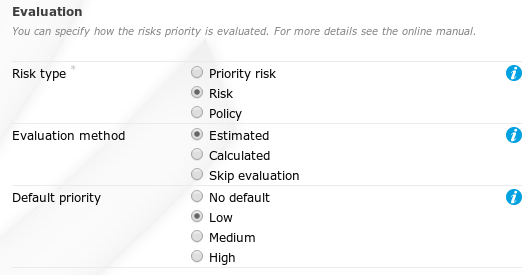
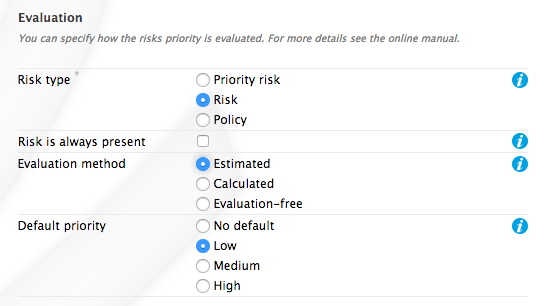
Update documentation to include the new "Rsk is always present" option #13692

diff --git a/manuals/editor2.rst b/manuals/editor2.rst
@@ -793,104 +793,109 @@ differ in case you have chosen the 2-criteria evaluation when creating the tool)
 
 **Evaluation**:
 
+
+    **Risk type**:
+    There are 3 types of risk which you can choose from.
+
+    Risks that have been identified by the end-user,
+    need to be assigned a priority, and the risk's type determines
+    what this priority will be or how it will be calculated.
+
+    #. **Priority risk**:
+        Refers to a risk considered by the sector/authorities among the high risks in the sector.
+
+        Risks of this type automatically receive a priority of *high*, so
+        end-users will not be asked to evaluate them.
+
+        If you choose this option, all subsequent fields under the
+        *Evaluation* section in the form will disappear (since they won't
+        be applicable anymore).
+
+    #. **Risk**:
+        Refers to the existing risks at the workplace or linked to the work
+        carried out. To identify and evaluate such risks it is often necessary to
+        examine the workplace (to walk around the workplace and look at what could
+        cause harm; consult workers, etc.).
+
+        For this "risk" type, the developer has to choose an evaluation method.
+        The developer can choose from three options of evaluation methods:
+
+            * **Estimated**:
+
+                .. figure:: images/editor/editor_14_risk_evaluation_estimated.png
+                    :align: center
+                    :alt: When choosing 'Estimated' as the evaluation method, you also need to set a default priority.
+
+                During the **Evaluation** phase of the OiRA tool assessment, the
+                end-user will determine the priority of a risk by selecting a value of **high, medium** or **low**.
+                The developer can also choose a **default priority** that will appear to the end users who can nevertheless overrule it.
+
+            * **Calculated**:
+                In this case, the risk's priority will be automatically calculated from the
+                values of 2 or 3 different criteria, depending on the *evaluation algorithm*
+                employed by the OiRA Tool, selected when you create the tool.
+                For each criterion the developer can choose a default or
+                leave the "no default" option(s). Providing a default
+                gives an orientation to the end user how to evaluate the
+                risk. However the end-user is always free to overrule the
+                default recommendation.
+
+                If the evaluation algorithm is the *Kinney method*, then the 3 criteria
+                are:
+
+                #. **Probability**
+                    How high is the probability that this risk will occur?
+                #. **Frequency**
+                    How often is one exposed to this risk?
+                #. **Severity**
+                    How severe is the danger posed by this risk?
+
+                If the algorithm is the *simplified, 2 criteria* version, only *severity* and *frequency*
+                (sometimes also referred to as *exposure*) are used as criteria.
+
+                The values for these criteria are supplied by the end-user during the
+                **Evaluation** phase, but you, as the developer, are
+                able to provide default values.
+
+                .. figure:: images/editor/editor_13_evaluation_risk.png
+                    :align: center
+
+                    *When choosing 'Calculated' as the evaluation method, you may also set the default values for the calculation parameters.*
+
+            * **Evaluation-free**:
+                In this case, you must set the priority to a fixed value. The end-user will not evaluate
+                the risk at all, because it will not show up in the evaluation phase.
+
+                .. figure:: images/editor/editor_skip_evaluation.png
+                    :align: center
+
+                    *When choosing to let the user skip the evaluation, you need to set the priority yourself.*
+
+        Option **"Risk is always present"**
+
+          If this option is selected, then the end-user will always see this risk as being present when they are filling in the OiRA tool in the client. It will behave as if the user had answered "No", but without the possibility that the user can change this answer. All available evaluation methods can be used with this option. Compared to regular risks there are no differences regarding the action plan.
+
+                .. figure:: images/editor/editor_risk_always_present.png
+                    :align: center
+
+                    *An info-bubble informs about the consequences of selecting this option.*
+
+    #. **Policy**:
+        Refers to agreements, procedures, management decisions regarding
+        OSH issues. These issues can be answered behind a desk (no need to examine the
+        workplace).
+
+        Risks of this type are strictly speaking not risks
+        and therefore won't be evaluated by the end-users (during the
+        **Evaluation** phase of the risk assessment).
+        They are "high priority" by default.
+
 .. note::
 
   You can also consult a specific document on Types of risk and evaluation
   methods that recommends when to select which type of risk and evaluation
   method, and the related effects on the client. Available at
   http://www.oiraproject.eu/Resources/technical-guides/types-of-risk-and-evaluation-method
-
-    * **Risk type**:
-        There are 3 types of risk which you can choose from.
-
-        Risks that have been identified by the end-user,
-        need to be assigned a priority, and the risk's type determines
-        what this priority will be or how it will be calculated.
-
-        #. **Priority risk**:
-            Refers to a risk considered by the sector/authorities among the high risks in the sector.
-
-            Risks of this type automatically receive a priority of *high*, so
-            end-users will not be asked to evaluate them.
-
-            If you choose this option, all subsequent fields under the
-            *Evaluation* section in the form will disappear (since they won't
-            be applicable anymore).
-
-        #. **Risk**:
-            Refers to the existing risks at the workplace or linked to the work
-            carried out. To identify and evaluate such risks it is often necessary to
-            examine the workplace (to walk around the workplace and look at what could
-            cause harm; consult workers, etc.).
-
-            For this "risk" type, the developer has to choose an evaluation method.
-            The developer can choose from three options of evaluation methods:
-
-                * **Estimated**:
-
-                    .. figure:: images/editor/editor_14_risk_evaluation_estimated.png
-                        :align: center
-                        :alt: When choosing 'Estimated' as the evaluation method, you also need to set a default priority.
-
-                    During the **Evaluation** phase of the OiRA tool assessment, the
-                    end-user will determine the priority of a risk by selecting a value of **high, medium** or **low**.
-                    The developer can also choose a **default priority** that will appear to the end users who can nevertheless overrule it.
-
-                * **Calculated**:
-                    In this case, the risk's priority will be automatically calculated from the
-                    values of 2 or 3 different criteria, depending on the *evaluation algorithm*
-                    employed by the OiRA Tool, selected when you create the tool.
-                    For each criterion the developer can choose a default or
-                    leave the "no default" option(s). Providing a default
-                    gives an orientation to the end user how to evaluate the
-                    risk. However the end-user is always free to overrule the
-                    default recommendation.
-
-                    If the evaluation algorithm is the *Kinney method*, then the 3 criteria
-                    are:
-
-                    #. **Probability**
-                        How high is the probability that this risk will occur?
-                    #. **Frequency**
-                        How often is one exposed to this risk?
-                    #. **Severity**
-                        How severe is the danger posed by this risk?
-
-                    If the algorithm is the *simplified, 2 criteria* version, only *severity* and *frequency*
-                    (sometimes also referred to as *exposure*) are used as criteria.
-
-                    The values for these criteria are supplied by the end-user during the
-                    **Evaluation** phase, but you, as the developer, are
-                    able to provide default values.
-
-                    .. figure:: images/editor/editor_13_evaluation_risk.png
-                        :align: center
-
-                        *When choosing 'Calculated' as the evaluation method, you may also set the default values for the calculation parameters.*
-
-                * **Skip evaluation**:
-                    In this case, you must set to
-                    priority to a fixed value. The end-user will not evaluate
-                    the risk at all, because it will not show up in the evaluation phase.
-
-                    .. figure:: images/editor/editor_skip_evaluation.png
-                        :align: center
-
-                        *When choosing to let the user skip the evaluation, you need to set the priority yourself.*
-
-                    If a tool only consists of risks using the "skip evaluation" option, the end user will see the following sentence at the evaluation phase:
-
-                    **"Please proceed directly to the action plan step."**
-
-        #. **Policy**:
-            Refers to agreements, procedures, management decisions regarding
-            OSH issues. These issues can be answered behind a desk (no need to examine the
-            workplace).
-
-            Risks of this type are strictly speaking not risks
-            and therefore won't be evaluated by the end-users (during the
-            **Evaluation** phase of the risk assessment).
-            They are "high priority" by default.
 
 **Main Image and Secondary Images**:
 

diff --git a/manuals/creation-guide.rst b/manuals/creation-guide.rst
@@ -262,6 +262,10 @@ generally need to be assigned a priority.
         **Evaluation** phase, although the content creator is again able to provide
         default values.
 
+    Option **"Risk is always present"**
+
+      If this option is selected, then the end-user will always see this risk as being present when they are filling in the OiRA tool in the client. It will behave as if the user had answered "No", but without the possibility that the user can change this answer. All available evaluation methods can be used with this option. Compared to regular risks there are no differences regarding the action plan.
+
 
     **Custom explanations for "Calculated" evaluation**
 
